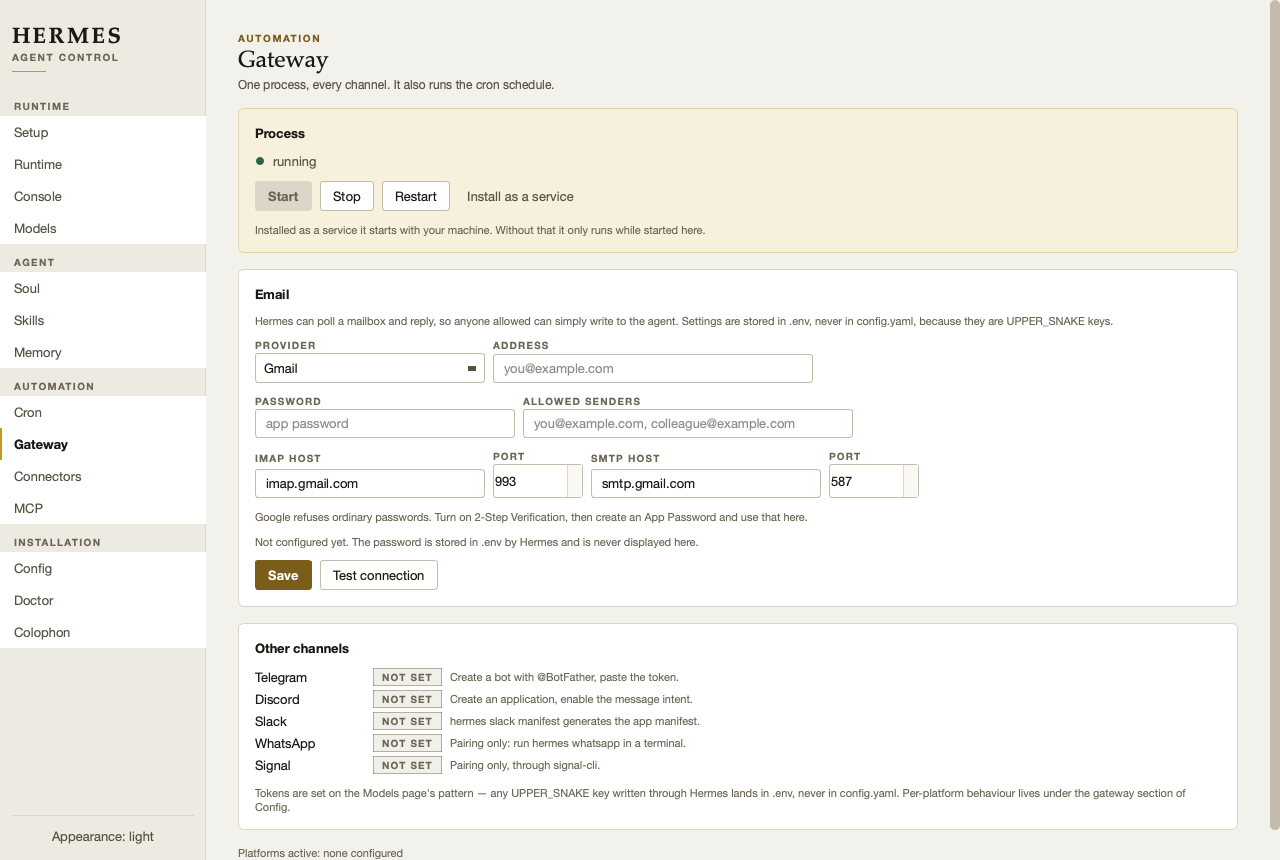
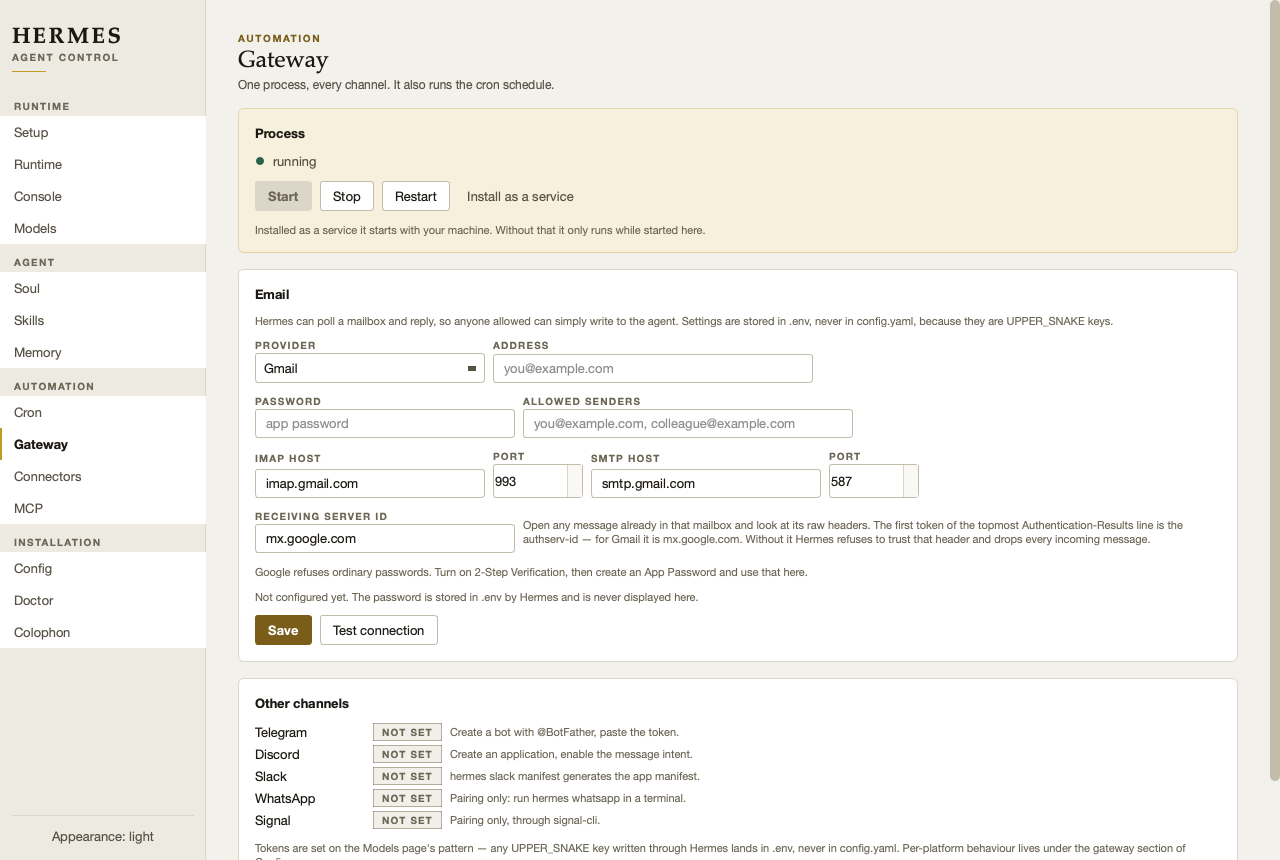
Email: add the setting whose absence drops every message
The email adapter refuses to trust a message's Authentication-Results header
unless the receiving server's authserv-id is pinned. Without it, incoming
mail is dropped with "authserv-id is not configured; refusing to trust
Authentication-Results" -- so the mailbox connects, the connection test
passes, and nobody ever gets a reply, with the reason only in a log. The form
did not have the field at all.

It does now, as "Receiving server ID", pre-filled with mx.google.com for
Gmail and explained beside the box. Saving without it is refused rather than
producing a mailbox that answers nobody.

Only Gmail's is pre-filled, because only Gmail's is documented. A wrong pin
fails exactly as silently as a missing one, so the other providers say how to
read it off a real message instead of guessing: it is the first token of the
topmost Authentication-Results line.

Found by reading the adapter before telling the user to fill the form in,
which also confirmed two things worth knowing: sender authorisation fails
closed, and spoofed From: headers are rejected outright (GHSA-rxqh-5572-8m77).

243 tests, lint clean.

Changed region(s): [[0.1875, 0.5744, 0.9062, 1.0], [0.9688, 0.907, 1.0, 0.9674]]

diff --git a/docs/index.html b/docs/index.html
@@ -134,7 +134,7 @@ footer{border-top:1px solid var(--rule);padding:30px 0 56px;color:var(--faint);
   <div class="badges">
     <span class="badge">Python</span><span class="badge">PySide6</span>
     <span class="badge">Windows · macOS · Linux</span><span class="badge">MIT</span>
-    <span class="badge">v1.9.0</span>
+    <span class="badge">v1.9.1</span>
   </div>
   <div class="cta">
     <a class="primary" href="https://github.com/at0m-b0mb/HermesControl">View on GitHub</a>
@@ -257,7 +257,7 @@ cd HermesControl
   <table>
     <tr><td class="k">Isolation</td><td>Installed into <code>~/.hermes-agent</code>, leaving an unrelated <code>~/.hermes</code> byte-identical by SHA-256.</td></tr>
     <tr><td class="k">Rendering</td><td>All 12 pages render in both themes, with no exceptions raised anywhere — including inside Qt callbacks, which do not reach the caller and so used to pass unnoticed.</td></tr>
-    <tr><td class="k">Tests</td><td>239 pass, including a functional suite that drives the real widgets, platform-simulation tests for the Windows and Linux branches, and WCAG AA contrast checks in both themes.</td></tr>
+    <tr><td class="k">Tests</td><td>243 pass, including a functional suite that drives the real widgets, platform-simulation tests for the Windows and Linux branches, and WCAG AA contrast checks in both themes.</td></tr>
     <tr><td class="k">A real turn</td><td>Ollama → <code>llama3.1</code> → streamed, exit 0, 31 s.</td></tr>
   </table>
   <div class="note"><p><strong>Not verified:</strong> Windows and Linux. Both are implemented behind a single platform module, but neither has been run on those systems.</p></div>

diff --git a/hermes_control/ui/pages/gateway.py b/hermes_control/ui/pages/gateway.py
@@ -93,11 +93,16 @@ class GatewayPage(Page):
             self._labelled("PASSWORD", self._password, 260),
             self._labelled("ALLOWED SENDERS", self._allowed_field(), 330),
             w.spacer()))
+        self._authserv = QLineEdit()
+        self._authserv.setPlaceholderText("mx.google.com")
         self._email.add(w.row(
             self._labelled("IMAP HOST", self._imap_host, 230),
             self._labelled("PORT", self._imap_port, 90),
             self._labelled("SMTP HOST", self._smtp_host, 230),
             self._labelled("PORT", self._smtp_port, 90), w.spacer()))
+        self._email.add(w.row(
+            self._labelled("RECEIVING SERVER ID", self._authserv, 260),
+            w.label(mail.AUTHSERV_HELP, "Faint", wrap=True), stretch_last=True))
 
         # currentTextChanged does not fire for the selection a combo box is
         # born with, so the first provider's hosts and its app-password
@@ -155,6 +160,7 @@ class GatewayPage(Page):
         if provider is None or provider.label == "Custom":
             self._email_note.setText("")
             return
+        self._authserv.setText(provider.authserv_id)
         self._imap_host.setText(provider.imap_host)
         self._imap_port.setValue(provider.imap_port)
         self._smtp_host.setText(provider.smtp_host)
@@ -178,6 +184,7 @@ class GatewayPage(Page):
             "EMAIL_SMTP_HOST": self._smtp_host.text().strip(),
             "EMAIL_SMTP_PORT": self._smtp_port.value(),
             "EMAIL_ALLOWED_USERS": self._allowed.text().strip(),
+            "EMAIL_AUTHSERV_ID": self._authserv.text().strip(),
         }
 
     def _save_email(self) -> None:
@@ -185,6 +192,14 @@ class GatewayPage(Page):
         if not values["EMAIL_ADDRESS"] or not values["EMAIL_SMTP_HOST"]:
             self._email_status.setText(
                 "An address and an SMTP host are the minimum.")
+            return
+        if not values["EMAIL_AUTHSERV_ID"]:
+            # Saving without it produces a mailbox that connects perfectly and
+            # answers nobody, with the reason only in a log.
+            self._email_status.setText(
+                "Receiving server ID is empty. Hermes will refuse to trust "
+                "the Authentication-Results header and drop every incoming "
+                "message. " + mail.AUTHSERV_HELP)
             return
         self._email_status.setText("Saving to .env…")
 
@@ -273,6 +288,7 @@ class GatewayPage(Page):
             self._imap_host.setText(env.get("EMAIL_IMAP_HOST", ""))
             self._smtp_host.setText(env.get("EMAIL_SMTP_HOST", ""))
             self._allowed.setText(env.get("EMAIL_ALLOWED_USERS", ""))
+            self._authserv.setText(env.get("EMAIL_AUTHSERV_ID", ""))
             for key, box in (("EMAIL_IMAP_PORT", self._imap_port),
                              ("EMAIL_SMTP_PORT", self._smtp_port)):
                 try:

diff --git a/hermes_control/email.py b/hermes_control/email.py
@@ -41,6 +41,13 @@ class Provider:
     smtp_host: str
     smtp_port: int
     note: str = ""
+    #: The receiving mail server's ``authserv-id`` — the first token of the
+    #: ``Authentication-Results`` header it stamps. Hermes refuses to trust
+    #: that header unless it is pinned, so **without this every message is
+    #: dropped**, logged as "authserv-id is not configured". Only filled in
+    #: where it is documented; elsewhere it has to be read off a real message,
+    #: because guessing it wrong fails exactly as silently.
+    authserv_id: str = ""
 
     @property
     def needs_app_password(self) -> bool:
@@ -50,7 +57,8 @@ class Provider:
 PROVIDERS: tuple[Provider, ...] = (
     Provider("Gmail", "imap.gmail.com", 993, "smtp.gmail.com", 587,
              "Google refuses ordinary passwords. Turn on 2-Step Verification, "
-             "then create an App Password and use that here."),
+             "then create an App Password and use that here.",
+             authserv_id="mx.google.com"),
     Provider("Outlook / Microsoft 365", "outlook.office365.com", 993,
              "smtp.office365.com", 587,
              "Microsoft requires an app password once 2FA is on, and many "
@@ -68,7 +76,16 @@ PROVIDERS: tuple[Provider, ...] = (
 #: The variables the plugin reads. Only the first three are required.
 REQUIRED = ("EMAIL_ADDRESS", "EMAIL_PASSWORD", "EMAIL_SMTP_HOST")
 OPTIONAL = ("EMAIL_SMTP_PORT", "EMAIL_IMAP_HOST", "EMAIL_IMAP_PORT",
-            "EMAIL_ALLOWED_USERS", "EMAIL_HOME_ADDRESS")
+            "EMAIL_ALLOWED_USERS", "EMAIL_HOME_ADDRESS", "EMAIL_AUTHSERV_ID")
+
+#: How to find an authserv-id that is not pre-filled. Said in the UI, because
+#: the failure it prevents is total and silent.
+AUTHSERV_HELP = (
+    "Open any message already in that mailbox and look at its raw headers. "
+    "The first token of the topmost Authentication-Results line is the "
+    "authserv-id — for Gmail it is mx.google.com. Without it Hermes refuses "
+    "to trust that header and drops every incoming message."
+)
 SECRET = ("EMAIL_PASSWORD",)
 
 

diff --git a/tests/test_connectors_email.py b/tests/test_connectors_email.py
@@ -172,3 +172,42 @@ def test_the_device_code_is_pulled_out_of_the_output(blob, url, code) -> None:
 
 def test_nothing_is_invented_when_there_is_no_code() -> None:
     assert Connectors.extract_code("Waiting for sign-in...") == ("", "")
+
+
+# --- the setting whose absence fails silently -------------------------------
+
+def test_gmail_ships_its_authserv_id() -> None:
+    """Without it Hermes drops every incoming message.
+
+    `_MISSING_AUTHSERV_REASON` in the email adapter: "authserv-id is not
+    configured; refusing to trust Authentication-Results". The mailbox
+    connects, the test passes, and nobody ever gets a reply — with the reason
+    only in a log. Gmail's is documented, so it is pre-filled.
+    """
+    gmail = mail.provider_for("Gmail")
+    assert gmail is not None
+    assert gmail.authserv_id == "mx.google.com"
+
+
+def test_unknown_providers_do_not_guess_an_authserv_id() -> None:
+    """A wrong pin fails exactly as silently as a missing one."""
+    for provider in mail.PROVIDERS:
+        if provider.label in ("Gmail", "Custom"):
+            continue
+        assert provider.authserv_id == "", (
+            f"{provider.label} guesses an authserv-id; a wrong one drops "
+            f"every message just as a missing one does")
+
+
+def test_the_authserv_variable_is_offered() -> None:
+    assert "EMAIL_AUTHSERV_ID" in mail.OPTIONAL
+    assert "Authentication-Results" in mail.AUTHSERV_HELP
+    assert "drops every incoming message" in mail.AUTHSERV_HELP
+
+
+def test_the_form_refuses_to_save_without_it() -> None:
+    """Checked in the source, since it is a guard rather than a return value."""
+    source = (Path(__file__).resolve().parents[1] / "hermes_control" / "ui"
+              / "pages" / "gateway.py").read_text(encoding="utf-8")
+    assert 'if not values["EMAIL_AUTHSERV_ID"]' in source, (
+        "saving without it produces a mailbox that answers nobody")

diff --git a/hermes_control/__init__.py b/hermes_control/__init__.py
@@ -17,5 +17,5 @@ Layout, bottom up:
 * :mod:`ui`         — Qt. Nothing below this line imports it.
 """
 
-__version__ = "1.9.0"
+__version__ = "1.9.1"
 __all__ = ["__version__"]

diff --git a/hermes_control/ui/pages/colophon.py b/hermes_control/ui/pages/colophon.py
@@ -15,7 +15,7 @@ from ... import platforms, theme
 from .. import widgets as w
 from ..shell import Page
 
-VERSION = "1.9.0"
+VERSION = "1.9.1"
 
 
 class ColophonPage(Page):

diff --git a/README.md b/README.md
@@ -170,7 +170,7 @@ On macOS 26 (Darwin 27), Python 3.13, PySide6 6.12 / Qt 6.12, against Hermes Age
 
 - Isolated install into `~/.hermes-agent`, leaving an unrelated `~/.hermes` byte-identical by SHA-256.
 - All 11 pages render in both themes with no exceptions (`tools/shoot.py`).
-- **239 tests pass**, including a functional suite that drives the real widgets, platform-simulation tests for the Windows and Linux branches, and a first-run suite that drives the app against an empty install.
+- **243 tests pass**, including a functional suite that drives the real widgets, platform-simulation tests for the Windows and Linux branches, and a first-run suite that drives the app against an empty install.
 - A chat turn end to end *through the interface*: typed into the Console, streamed back, answer in the transcript, token accounting delivered to the ribbon.
 - Editing a setting and pressing Apply is asserted to reach `config.yaml`, and the original is restored.
 - Every local model's verdict is checked against what Ollama actually reports, and a model under the floor is asserted to be unselectable.
